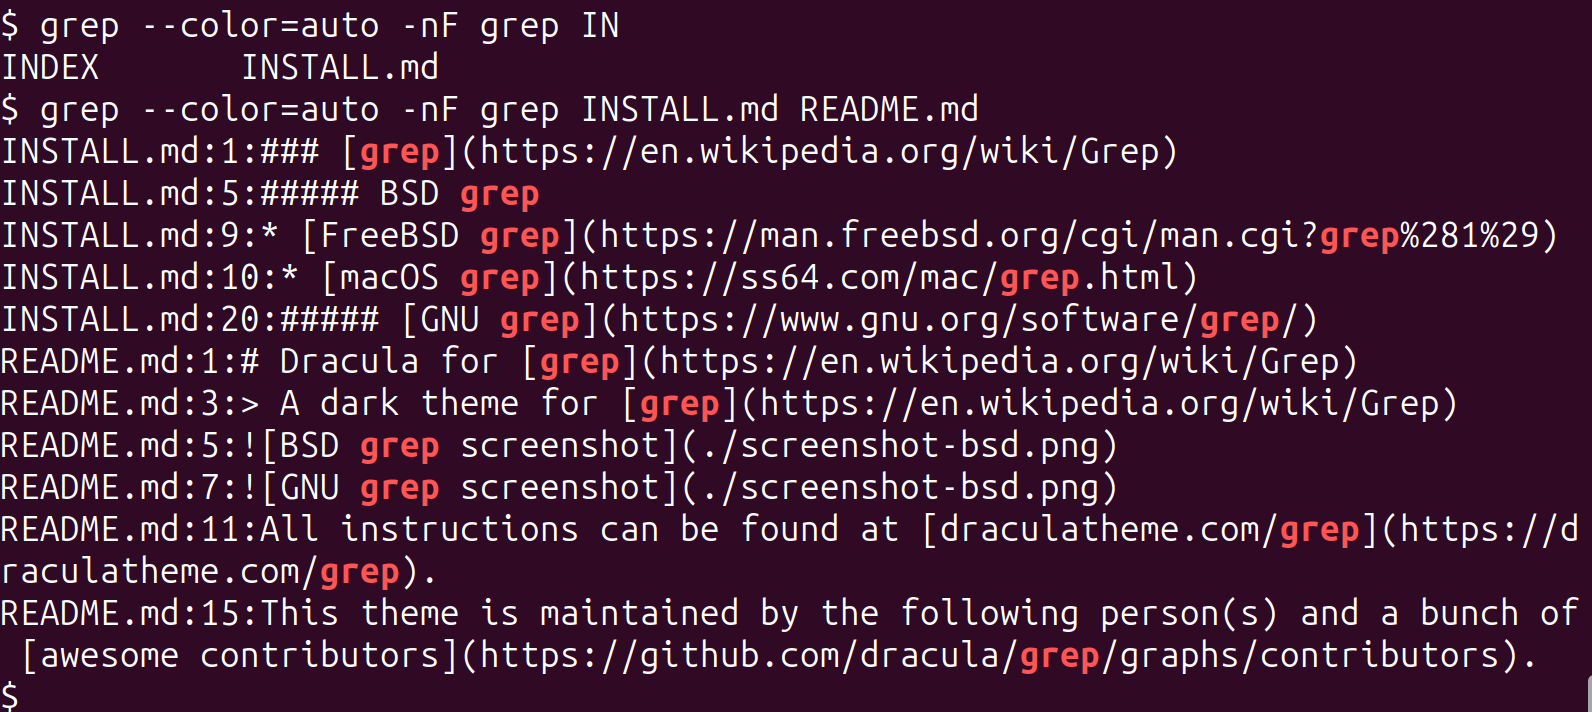
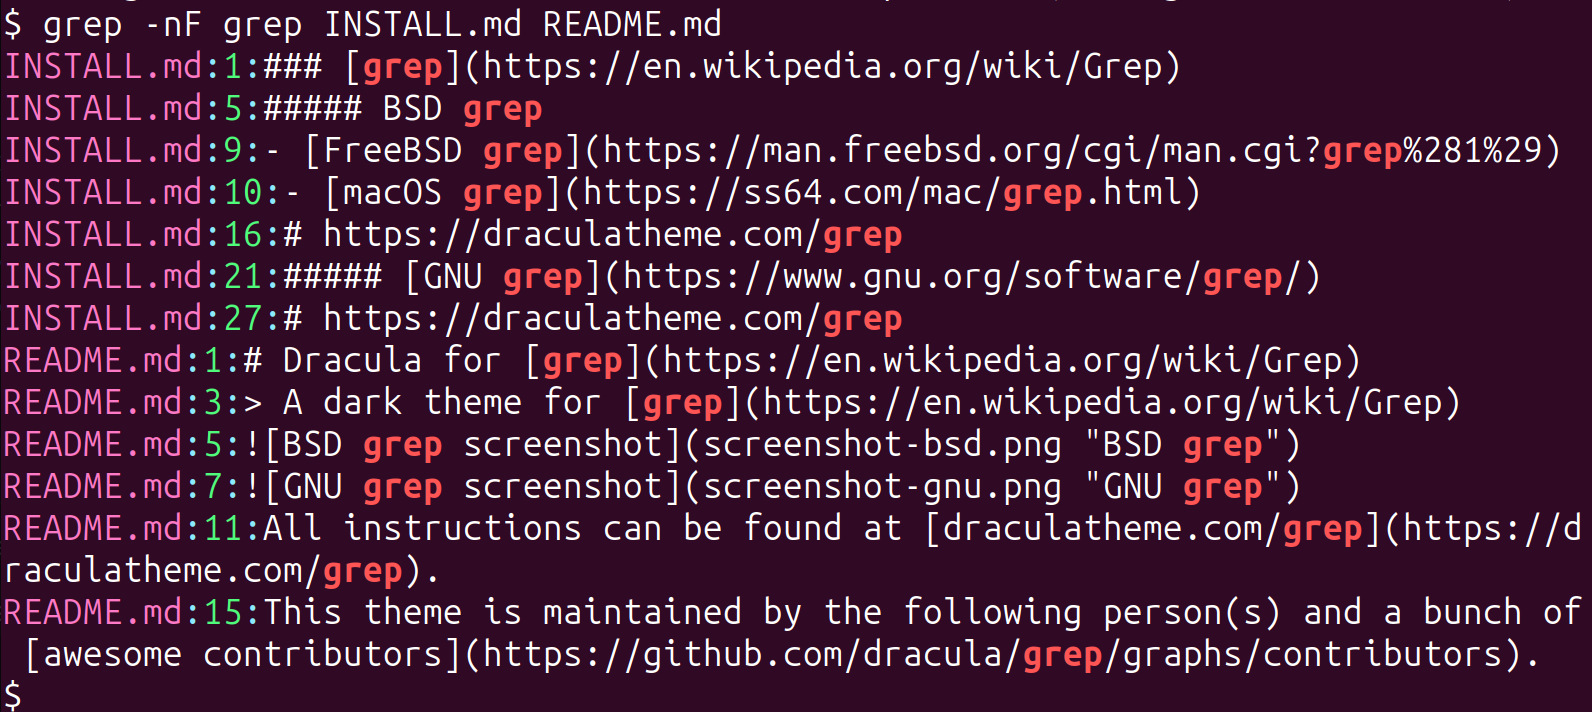
docs: show GNU grep before BSD
The theme is more featureful with that.

Changed region(s): [[0.0, 0.0, 1.0, 1.0], [0.9849, 0.9579, 1.0, 1.0]]

diff --git a/INSTALL.md b/INSTALL.md
@@ -4,22 +4,6 @@
 
 **Important:** The configuration method depends on your grep implementation. Use the appropriate section below based on your system.
 
-##### BSD grep
-
-**Compatible Systems:**
-
-- [FreeBSD grep](https://man.freebsd.org/cgi/man.cgi?grep%281%29);
-- [macOS grep](https://ss64.com/mac/grep.html).
-
-###### Configuration
-
-Add the following to your shell configuration file (`.bashrc`, `.zshrc`, etc.):
-
-```shell
-# Dracula theme for BSD grep - https://draculatheme.com/grep
-export GREP_COLOR="1;38;2;255;85;85"
-```
-
 ##### [GNU grep](https://www.gnu.org/software/grep/)
 
 ###### Configuration
@@ -38,6 +22,22 @@ export GREP_COLORS="mt=1;38;2;255;85;85:fn=38;2;255;121;198:ln=38;2;80;250;123:b
 > - **ln** (line number): Green (`#50fa7b`) - line numbers;
 > - **bn** (byte offset): Green (`#50fa7b`) - byte offsets;
 > - **se** (separator): Cyan (`#8be9fd`) - separators;
+
+##### BSD grep
+
+**Compatible Systems:**
+
+- [FreeBSD grep](https://man.freebsd.org/cgi/man.cgi?grep%281%29);
+- [macOS grep](https://ss64.com/mac/grep.html).
+
+###### Configuration
+
+Add the following to your shell configuration file (`.bashrc`, `.zshrc`, etc.):
+
+```shell
+# Dracula theme for BSD grep - https://draculatheme.com/grep
+export GREP_COLOR="1;38;2;255;85;85"
+```
 
 #### Activating theme
 

diff --git a/README.md b/README.md
@@ -2,13 +2,13 @@
 
 > A dark theme for [grep](https://en.wikipedia.org/wiki/Grep)
 
-![BSD grep screenshot](screenshot.png "BSD grep")
-
-> BSD grep
-
-![GNU grep screenshot](screenshot-gnu.png "GNU grep")
+![GNU grep screenshot](screenshot.png "GNU grep")
 
 > GNU grep
+
+![BSD grep screenshot](screenshot-bsd.png "BSD grep")
+
+> BSD grep
 
 ## Install
 
